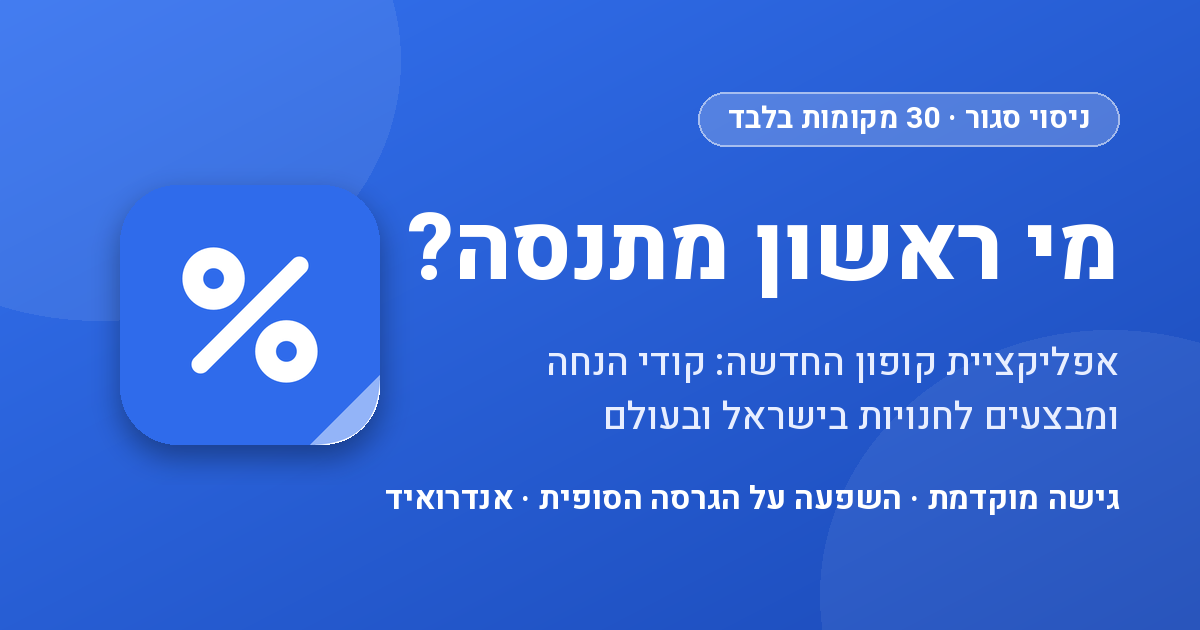
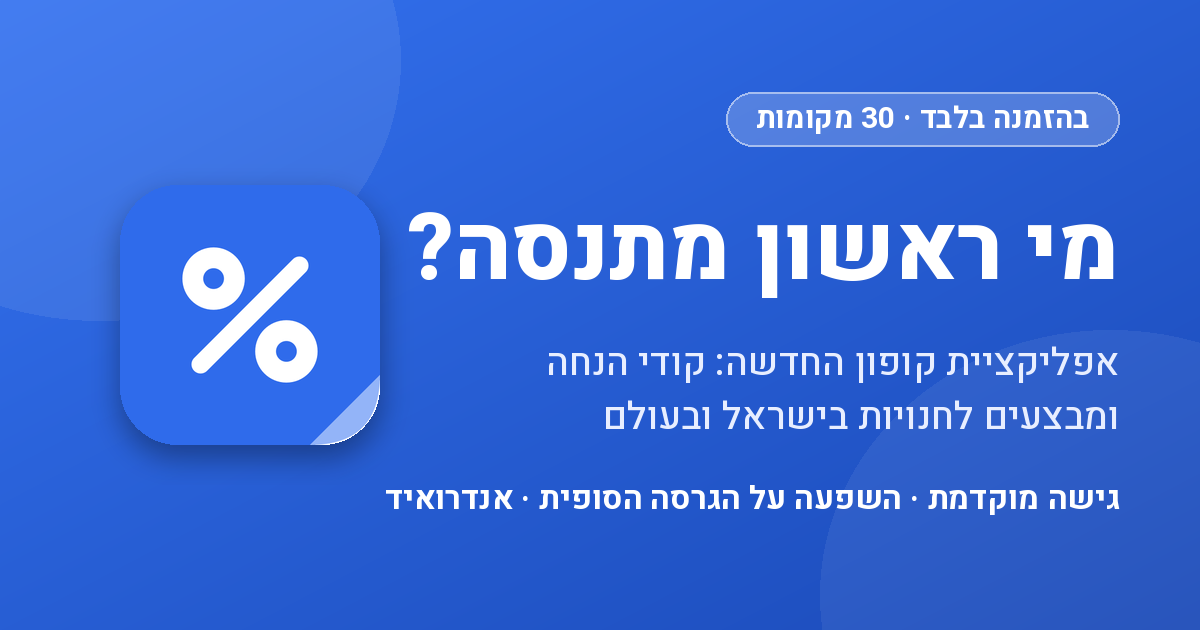
early.html ותמונת שיתוף: תג "בהזמנה בלבד · 30 מקומות"
Claude-Session: https://claude.ai/code/session_018SZysXChNEi222g2qnWRnE

Changed region(s): [[0.555, 0.1508, 0.925, 0.2413]]

diff --git a/early.html b/early.html
@@ -83,7 +83,7 @@
 <main class="wrap">
 
   <section class="hero">
-    <span class="pill">גישה מוקדמת · 30 מקומות</span>
+    <span class="pill">בהזמנה בלבד · 30 מקומות</span>
     <h1>מי ראשון מתנסה?</h1>
     <p>אפליקציית "קופון" החדשה, עם קודי הנחה ומבצעים לחנויות בישראל ובעולם, עוד לא פתוחה לציבור.</p>
     <p><strong>30 המשתתפים הראשונים</strong> מקבלים גישה מוקדמת לאנדרואיד, ויכולים להשפיע על הגרסה הסופית. המקומות מוגבלים ונמלאים לפי סדר ההצטרפות.</p>
